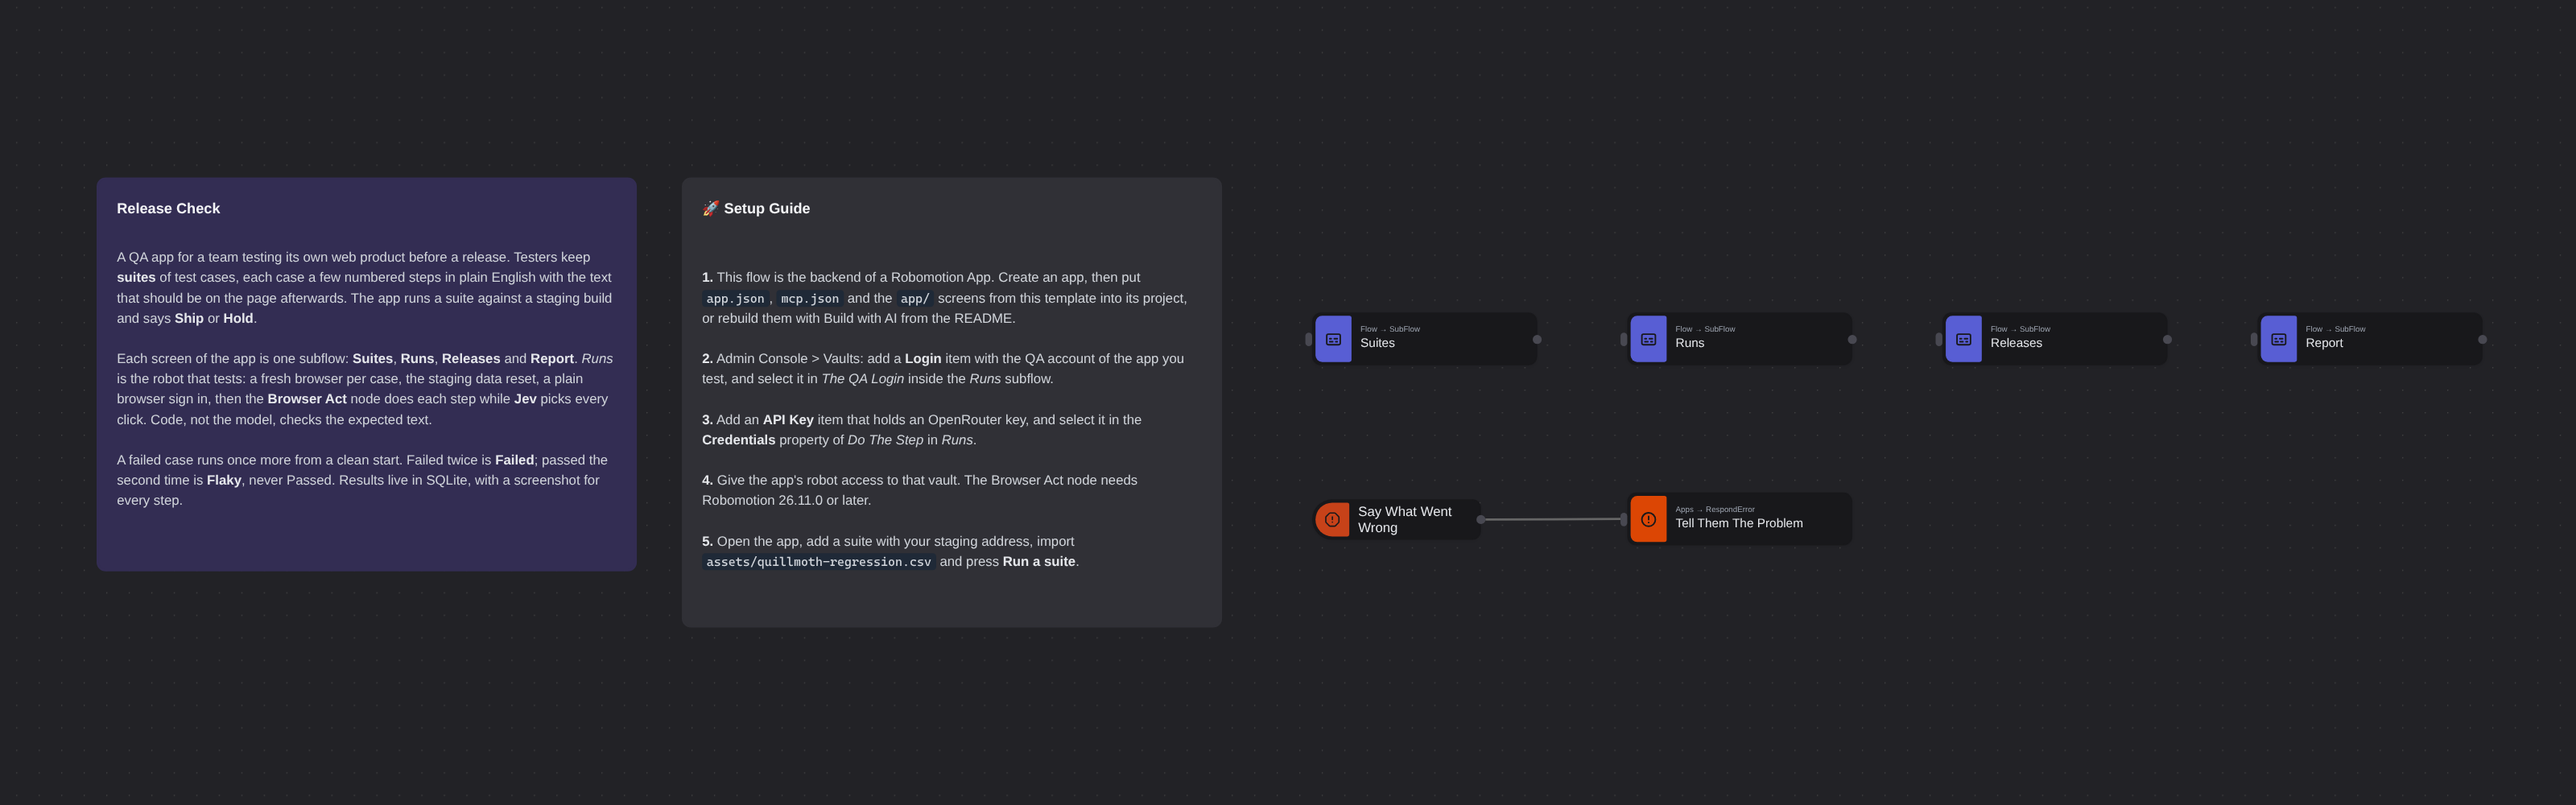
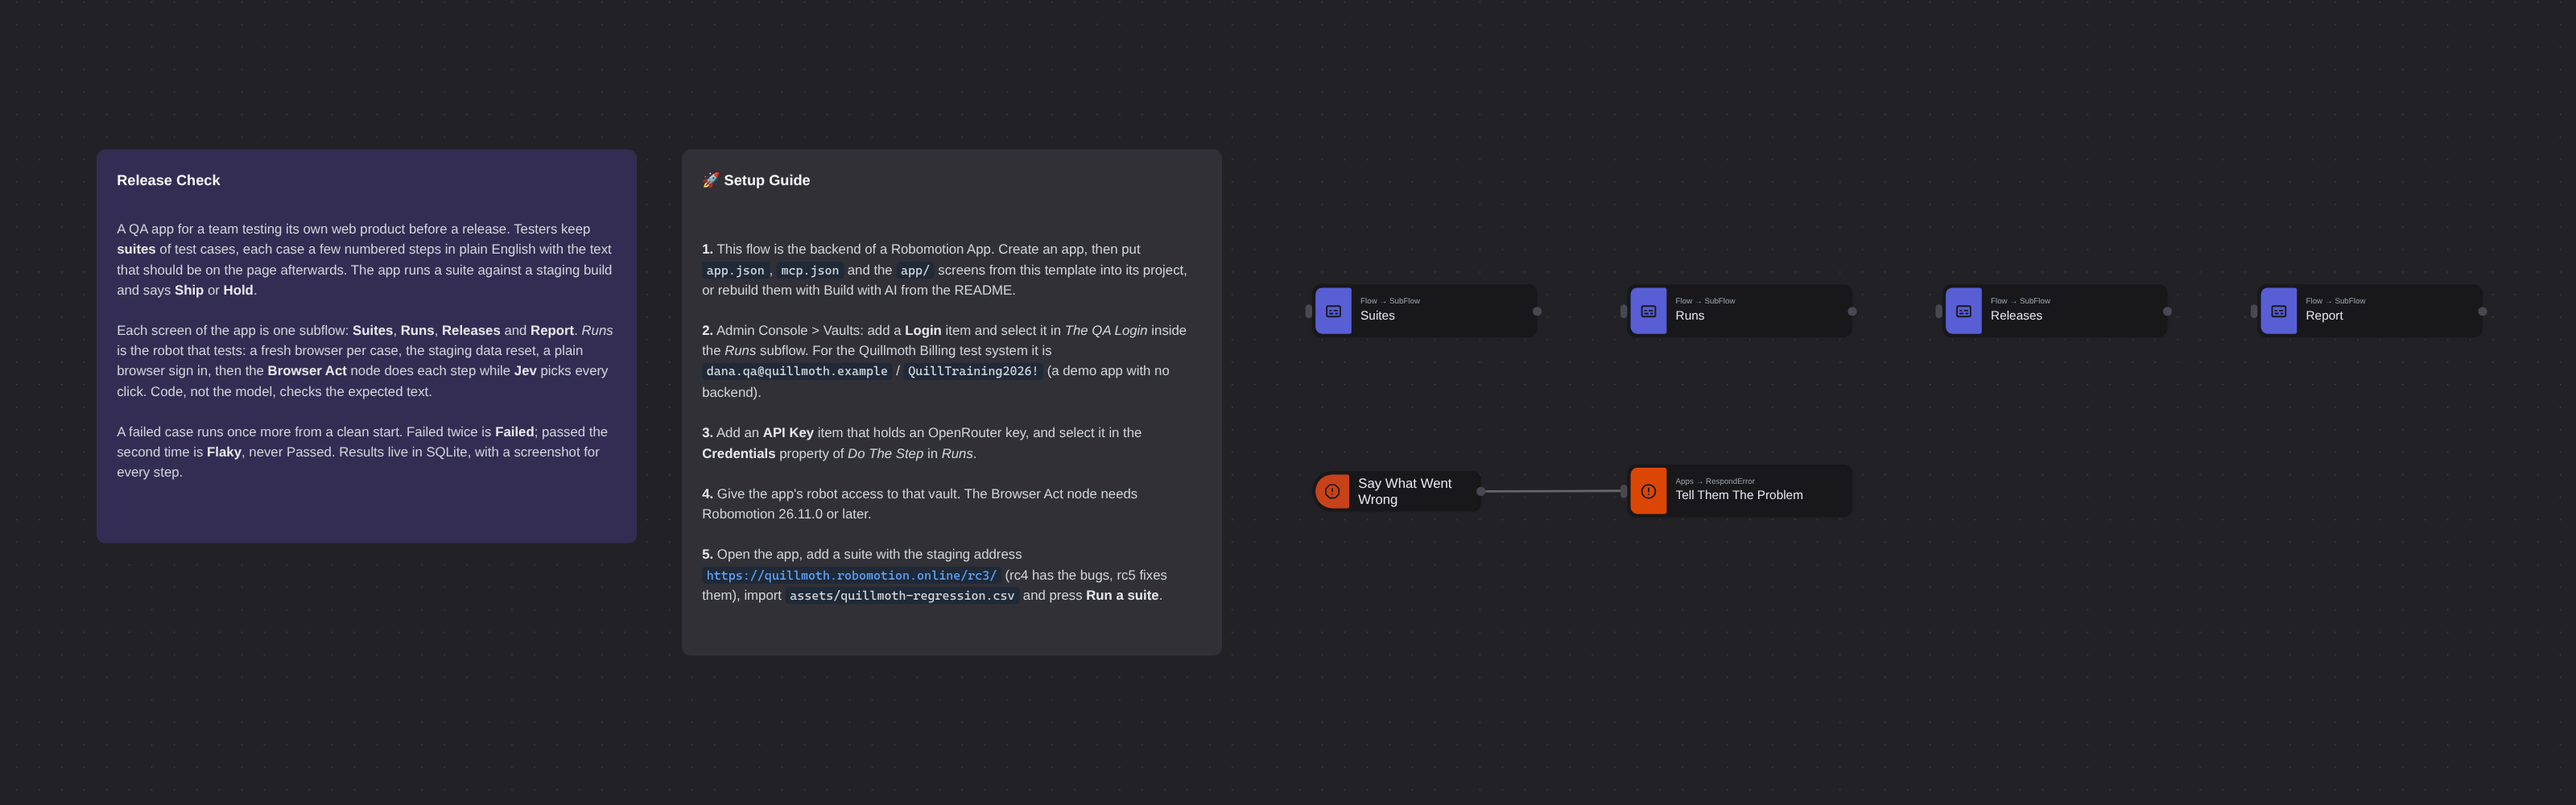
Release Check: the Quillmoth test system's QA login and builds in the Setup Guide
Quillmoth Billing is a single-page demo app with no backend, so its QA account goes into the
Setup Guide comment and the README for the user to put in their own vault Login item.

diff --git a/release-check/main.ts b/release-check/main.ts
@@ -6,7 +6,7 @@ flow.create('main', 'Release Check', (f) => {
 
   f.node('c30001', 'Core.Flow.Comment', 'Comment', { optText: "#### Release Check\nA QA app for a team testing its own web product before a release. Testers keep **suites** of test cases, each case a few numbered steps in plain English with the text that should be on the page afterwards. The app runs a suite against a staging build and says **Ship** or **Hold**.\n\nEach screen of the app is one subflow: **Suites**, **Runs**, **Releases** and **Report**. *Runs* is the robot that tests: a fresh browser per case, the staging data reset, a plain browser sign in, then the **Browser Act** node does each step while **Jev** picks every click. Code, not the model, checks the expected text.\n\nA failed case runs once more from a clean start. Failed twice is **Failed**; passed the second time is **Flaky**, never Passed. Results live in SQLite, with a screenshot for every step." });
 
-  f.node('c30002', 'Core.Flow.Comment', 'Setup Guide', { optText: "#### 🚀 Setup Guide\n\n**1.** This flow is the backend of a Robomotion App. Create an app, then put `app.json`, `mcp.json` and the `app/` screens from this template into its project, or rebuild them with Build with AI from the README.\n\n**2.** Admin Console > Vaults: add a **Login** item with the QA account of the app you test, and select it in *The QA Login* inside the *Runs* subflow.\n\n**3.** Add an **API Key** item that holds an OpenRouter key, and select it in the **Credentials** property of *Do The Step* in *Runs*.\n\n**4.** Give the app's robot access to that vault. The Browser Act node needs Robomotion 26.11.0 or later.\n\n**5.** Open the app, add a suite with your staging address, import `assets/quillmoth-regression.csv` and press **Run a suite**." });
+  f.node('c30002', 'Core.Flow.Comment', 'Setup Guide', { optText: "#### 🚀 Setup Guide\n\n**1.** This flow is the backend of a Robomotion App. Create an app, then put `app.json`, `mcp.json` and the `app/` screens from this template into its project, or rebuild them with Build with AI from the README.\n\n**2.** Admin Console > Vaults: add a **Login** item and select it in *The QA Login* inside the *Runs* subflow. For the Quillmoth Billing test system it is `dana.qa@quillmoth.example` / `QuillTraining2026!` (a demo app with no backend).\n\n**3.** Add an **API Key** item that holds an OpenRouter key, and select it in the **Credentials** property of *Do The Step* in *Runs*.\n\n**4.** Give the app's robot access to that vault. The Browser Act node needs Robomotion 26.11.0 or later.\n\n**5.** Open the app, add a suite with the staging address `https://quillmoth.robomotion.online/rc3/` (rc4 has the bugs, rc5 fixes them), import `assets/quillmoth-regression.csv` and press **Run a suite**." });
 
   f.node('b3ea2a', 'Core.Flow.SubFlow', 'Suites', { optHidePorts: true });
   f.node('5a9f01', 'Core.Flow.SubFlow', 'Runs', { optHidePorts: true });

diff --git a/release-check/main.designer.ts b/release-check/main.designer.ts
@@ -5,7 +5,7 @@
 // 280 px columns on the grid in docs/layout-guide.md; the Catch carries the +6 px nudge.
 export default {
   flowId: 'main',
-  sourceHash: 'bed9581d',
+  sourceHash: '2ee29dd7',
   positions: {
     // ---- one SubFlow per screen ----
     'b3ea2a': { x: 900, y: 120 },     // Suites
@@ -25,6 +25,6 @@ export default {
   },
   commentExtras: {
     'c30001': { colorIndex: 4, size: { width: 480, height: 350 } },
-    'c30002': { colorIndex: 0, size: { width: 480, height: 400 } },
+    'c30002': { colorIndex: 0, size: { width: 480, height: 450 } },
   },
 };

diff --git a/release-check/README.md b/release-check/README.md
@@ -31,10 +31,10 @@ A case whose first attempt fails gets one more attempt from a clean browser and 
 ## Setup Guide
 
 1. **Make the app.** This template is the flow behind a Robomotion App. Create an app in the Designer, then put this template's `app.json`, `mcp.json`, `src/` and `app/` into its project next to `main.ts` and `subflows/`. You can also rebuild the screens with Build with AI from the description above. The app needs the **Robomotion.Apps** and **Robomotion.SQLite** packages.
-2. **Add the QA login.** In Admin Console > Vaults, add a **Login** item with the QA account of the app you are testing. Select it in *The QA Login* inside the *Runs* subflow.
+2. **Add the QA login.** In Admin Console > Vaults, add a **Login** item and select it in *The QA Login* inside the *Runs* subflow. Quillmoth Billing is a test system for this flow, a single-page app with no backend, and its QA account is username `dana.qa@quillmoth.example`, password `QuillTraining2026!`. For your own product, use its QA account.
 3. **Add an OpenRouter key.** Put an OpenRouter API key into a Vault item (type: API Key) and select it in the **Credentials** property of *Do The Step* in *Runs*. Its Provider (OpenRouter), Decision Model (`typesafe/jev-1.14`) and Text Model are already set.
 4. **Give the app's robot access** to that vault. The Browser Act node needs Robomotion 26.11.0 or later on the robot.
-5. **Run it.** Open the app, add a suite with your staging address, import `assets/quillmoth-regression.csv` (or your own file with the columns `case,step,action,expected`) and press **Run a suite**. The run dialog says which case it is checking, the run lands on the Runs screen when it ends, and **Report** says Ship or Hold.
+5. **Run it.** Open the app, add a suite with a staging address: Quillmoth has three builds, `https://quillmoth.robomotion.online/rc3/` (passes), `/rc4/` (a discount bug and a flaky customer save) and `/rc5/` (fixed). Then import `assets/quillmoth-regression.csv` (or your own file with the columns `case,step,action,expected`) and press **Run a suite**. The run dialog says which case it is checking, the run lands on the Runs screen when it ends, and **Report** says Ship or Hold.
 
 ## Customization
 
